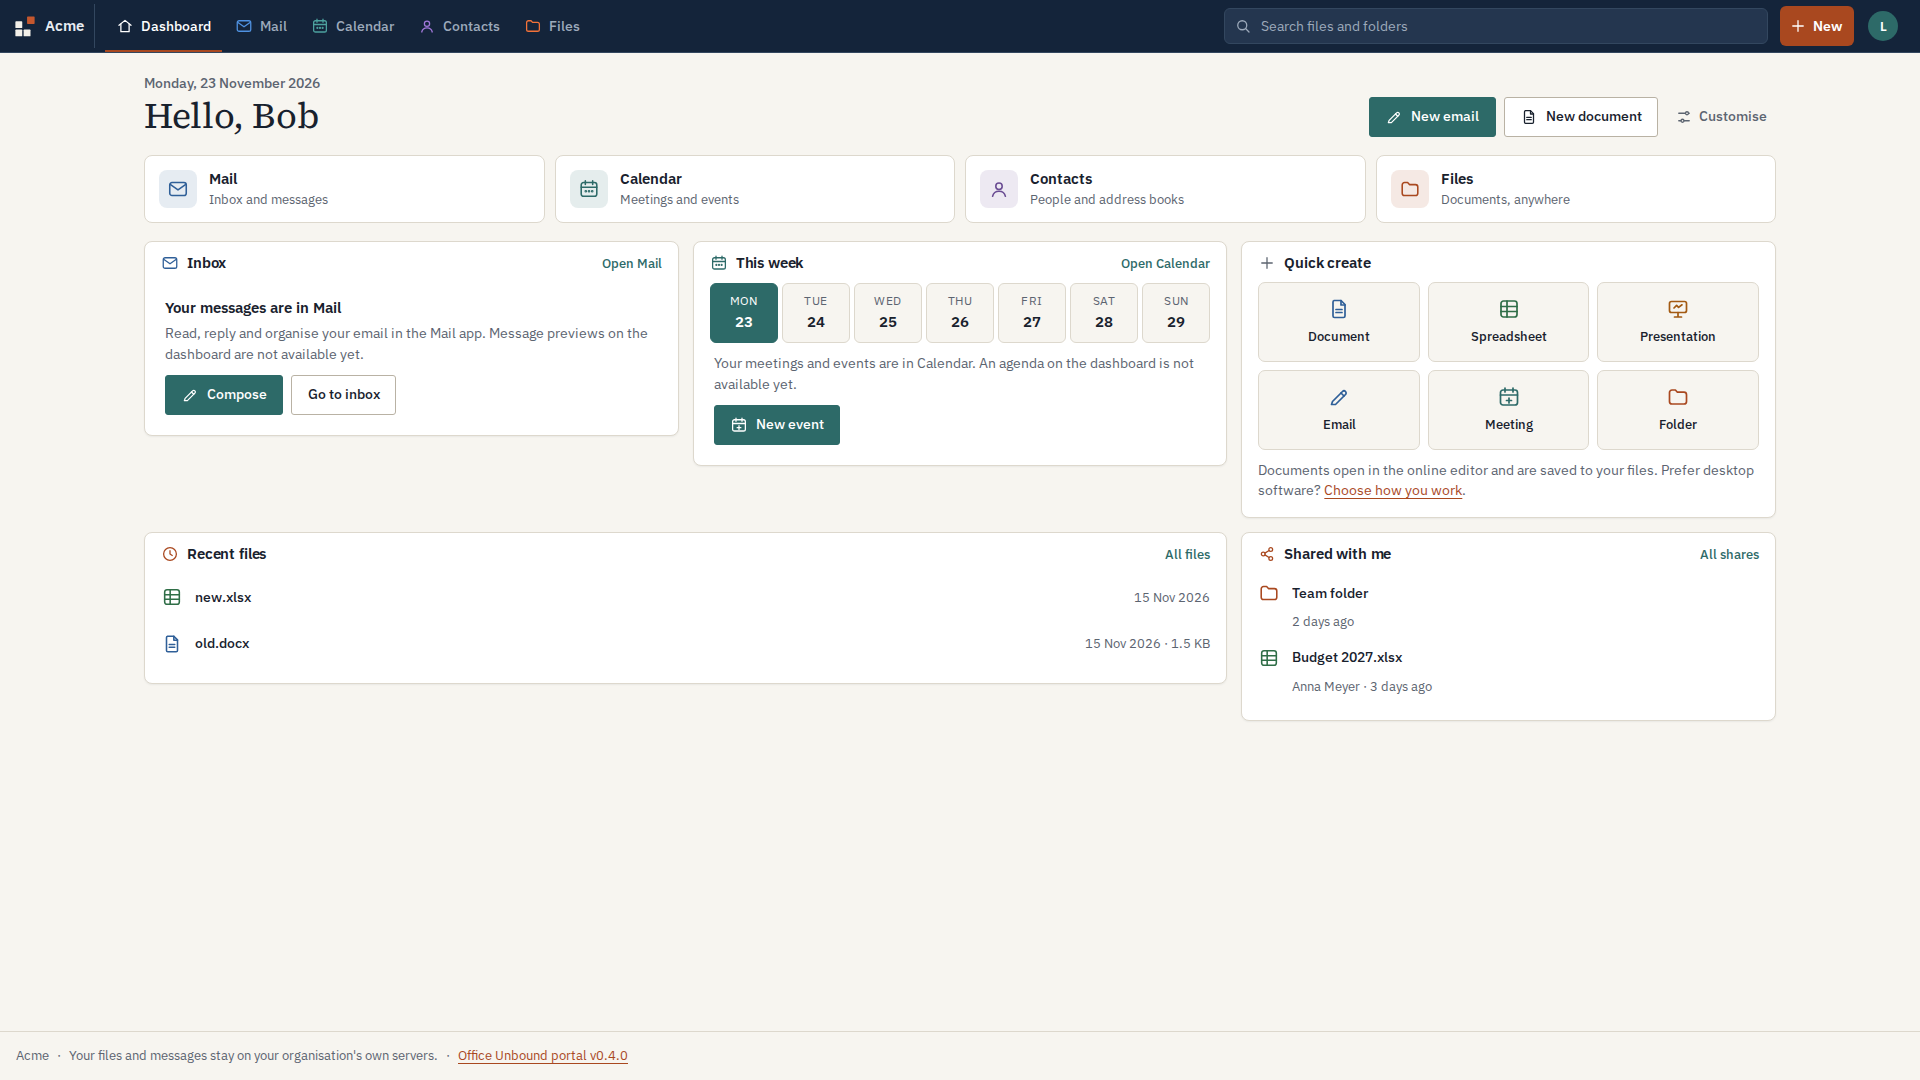
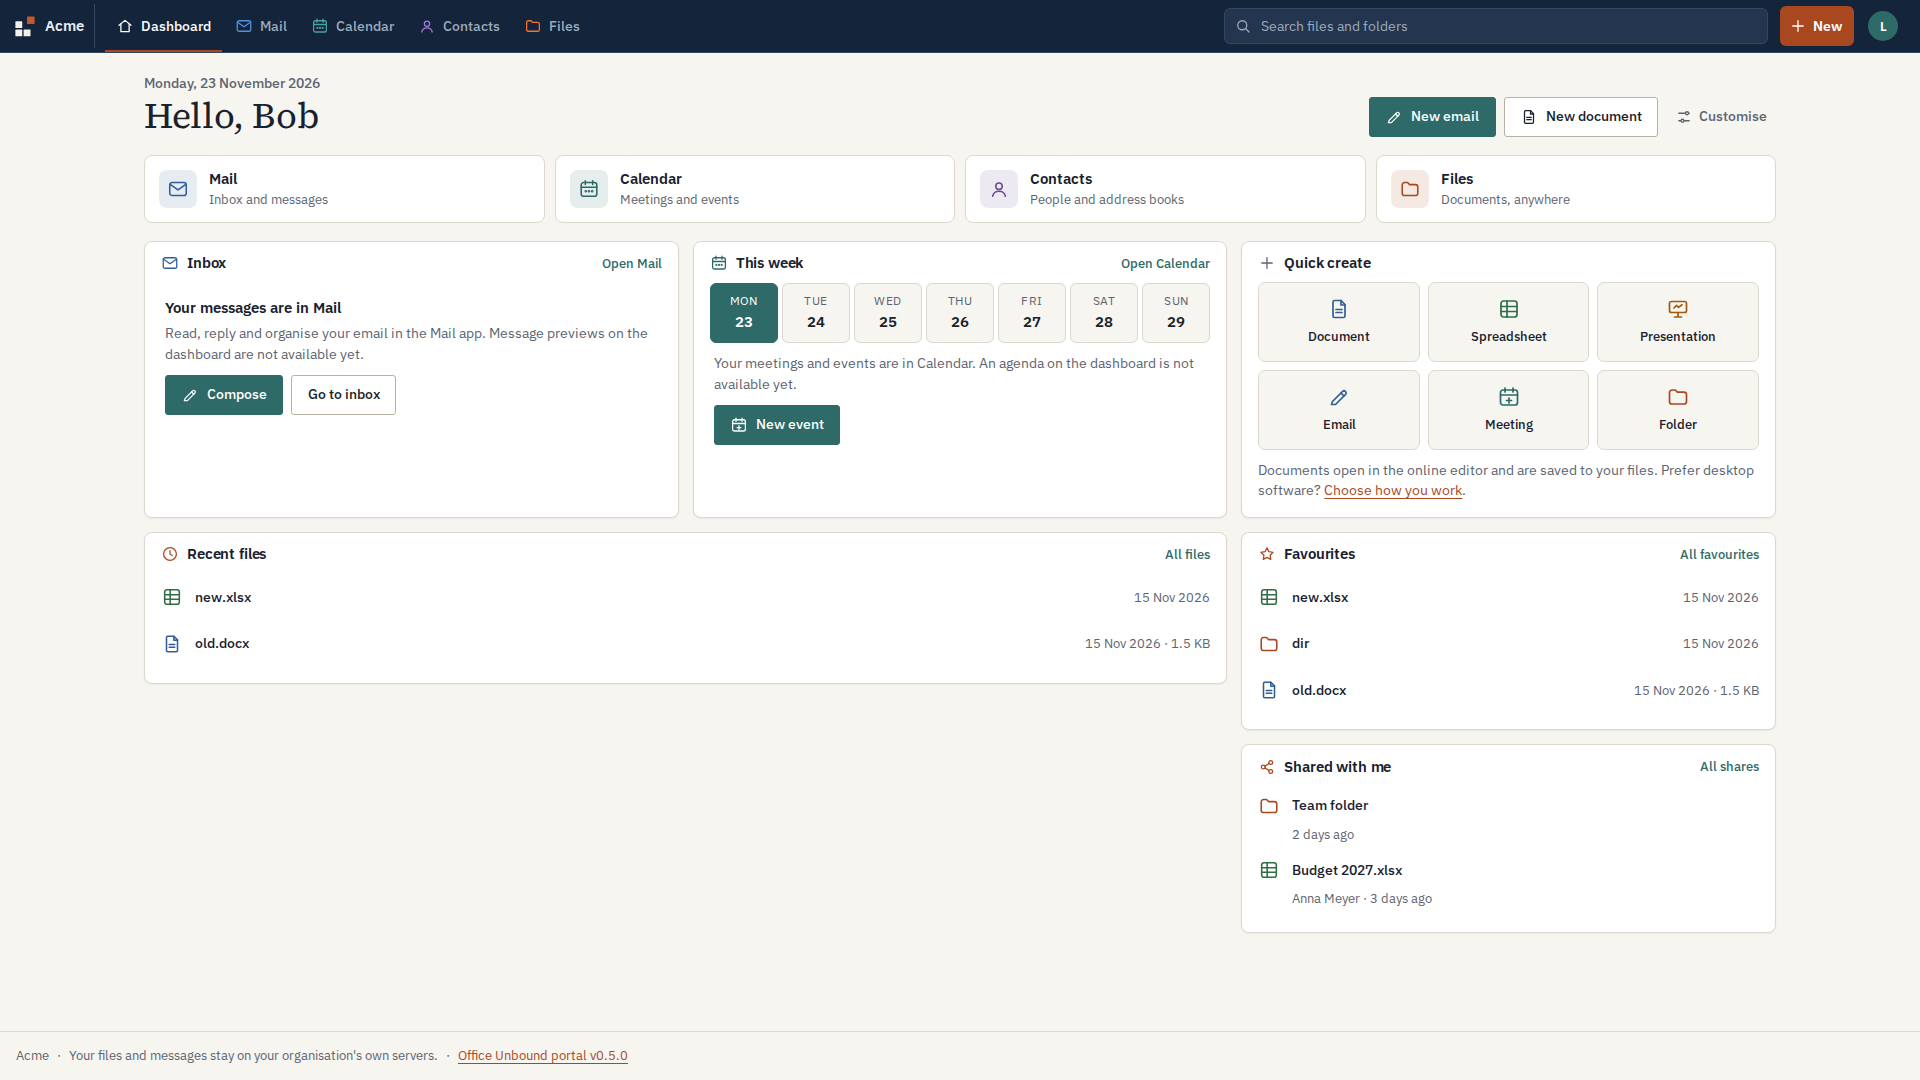
Dashboard: Favourites widget (live, Files' own is:favorite search); recent files beside favourites and shares; even first row

diff --git a/portal/app/static/portal.css b/portal/app/static/portal.css
@@ -280,11 +280,13 @@ main { padding-block: 1.25rem 3rem; }
 .apptile[data-app="contacts"] .ic { color: var(--ou-app-contacts); } .apptile[data-app="files"] .ic { color: var(--ou-app-files); } .apptile[data-app="chat"] .ic { color: var(--ou-app-chat); }
 .board { display: grid; grid-template-columns: repeat(12, minmax(0, 1fr)); gap: 14px; align-items: start; }
 .widget { grid-column: span 4; min-width: 0; background: var(--surface); border: 1px solid var(--line); border-radius: 8px; padding: 14px 16px 16px; box-shadow: var(--ou-shadow); }
-.w-recent { grid-column: span 8; } .w-shared { grid-column: span 4; }
+.board { grid-auto-flow: row dense; }
+.w-inbox, .w-cal, .w-create { align-self: stretch; }   /* the first row reads as one band of equal cards */
+.w-recent { grid-column: span 8; grid-row: span 2; } .w-shared, .w-fav { grid-column: span 4; }   /* recent on the left, favourites and shared stacked beside it */
 .wh { display: flex; align-items: center; justify-content: space-between; gap: 8px; margin: -2px 0 10px; }
 .wh h2 { display: inline-flex; align-items: center; gap: 8px; margin: 0; font-size: 14.5px; }
 .wh h2 .ic { width: 18px; height: 18px; color: var(--muted); }
-.w-inbox .wh .ic { color: var(--ou-app-mail); } .w-cal .wh .ic { color: var(--ou-app-calendar); } .w-recent .wh .ic, .w-shared .wh .ic { color: var(--ou-app-files); }
+.w-inbox .wh .ic { color: var(--ou-app-mail); } .w-cal .wh .ic { color: var(--ou-app-calendar); } .w-recent .wh .ic, .w-shared .wh .ic { color: var(--ou-app-files); } .w-fav .wh .ic { color: var(--ou-accent); }
 .wlink { font-size: 13px; font-weight: 500; text-decoration: none; color: var(--ou-action); }
 .wlink:hover { text-decoration: underline; }
 .wempty { padding: 14px 4px 4px; color: var(--muted); font-size: 14px; }
@@ -312,8 +314,8 @@ main { padding-block: 1.25rem 3rem; }
 .fname { overflow: hidden; text-overflow: ellipsis; white-space: nowrap; font-weight: 500; color: var(--ink); font-size: 14px; }
 .fmeta { color: var(--muted); font-size: 12.5px; white-space: nowrap; }
 .w-shared .frow { grid-template-columns: auto minmax(0, 1fr); } .w-shared .fmeta { grid-column: 2; margin-top: -4px; }
-@media (max-width: 1280px) { .widget { grid-column: span 6; } .w-recent { grid-column: span 12; } .w-shared { grid-column: span 6; } }
-@media (max-width: 760px) { .board { grid-template-columns: 1fr; } .widget, .w-recent, .w-shared { grid-column: auto; }
+@media (max-width: 1280px) { .widget { grid-column: span 6; } .w-recent { grid-column: span 12; grid-row: auto; } .w-shared, .w-fav { grid-column: span 6; } }
+@media (max-width: 760px) { .board { grid-template-columns: 1fr; } .widget, .w-recent, .w-shared, .w-fav { grid-column: auto; grid-row: auto; }
   .frow { grid-template-columns: auto minmax(0, 1fr); } .fmeta { grid-column: 2; white-space: normal; margin-top: -4px; } }
 .bigsearch { display: flex; gap: 8px; margin: 0 0 14px; max-width: 44rem; } .bigsearch input { flex: 1; }
 .h1like { font-size: 1.5rem; }

diff --git a/portal/app/templates/home.html b/portal/app/templates/home.html
@@ -113,6 +113,13 @@
   </section>
   {% endif %}
 
+  {% if has_files and "favorites" not in hidden %}
+  <section class="widget w-fav" aria-labelledby="h-fav">
+    <header class="wh"><h2 id="h-fav">{{ icon('star') }}Favourites</h2><a class="wlink" href="{{ cfg.files_url }}/files/favorites">All favourites</a></header>
+    {{ filerows(favorites, "No favourites yet", "Mark a file or folder with the star in Files and it appears here.") }}
+  </section>
+  {% endif %}
+
   {% if has_files and "shared" not in hidden %}
   <section class="widget w-shared" aria-labelledby="h-shared">
     <header class="wh"><h2 id="h-shared">{{ icon('share') }}Shared with me</h2><a class="wlink" href="{{ cfg.files_url }}/files/shares/with-me">All shares</a></header>

diff --git a/portal/app/templates/_icons.html b/portal/app/templates/_icons.html
@@ -30,6 +30,7 @@
 {%- elif name == 'signout' %}<path d="M14.5 4.5H18a1.5 1.5 0 0 1 1.5 1.5v12a1.5 1.5 0 0 1-1.5 1.5h-3.5"/><path d="M10 8l-4 4 4 4M6 12h9"/>
 {%- elif name == 'admin' %}<path d="M12 3.5 5 6v5.5c0 4.3 2.8 7.4 7 9 4.2-1.6 7-4.7 7-9V6z"/><circle cx="12" cy="11" r="2.2"/><path d="M8.8 16c.7-1.4 1.8-2.1 3.2-2.1s2.5.7 3.2 2.1"/>
 {%- elif name == 'share' %}<circle cx="17" cy="6" r="2.5"/><circle cx="7" cy="12" r="2.5"/><circle cx="17" cy="18" r="2.5"/><path d="m9.2 10.8 5.6-3.4M9.2 13.2l5.6 3.4"/>
+{%- elif name == 'star' %}<path d="m12 3.8 2.5 5.1 5.6.8-4 3.9 1 5.6-5.1-2.7-5 2.7 1-5.6-4.1-3.9 5.6-.8z"/>
 {%- elif name == 'clock' %}<circle cx="12" cy="12" r="8.5"/><path d="M12 7.5V12l3 2"/>
 {%- endif %}</svg>
 {%- endmacro %}

diff --git a/portal/app/main.py b/portal/app/main.py
@@ -38,7 +38,8 @@ def css_string(text: str) -> str:
 
 PREFS_COOKIE = "ou_prefs"
 THEMES = ("system", "light", "dark")
-WIDGETS = {"inbox": "Inbox", "calendar": "Calendar", "recent": "Recent files", "shared": "Shared with me", "create": "Quick create"}
+WIDGETS = {"inbox": "Inbox", "calendar": "Calendar", "recent": "Recent files", "favorites": "Favourites", "shared": "Shared with me",
+           "create": "Quick create"}
 
 
 def parse_prefs(raw: str | None) -> dict:
@@ -273,7 +274,7 @@ def create_app(cfg: Settings | None = None, transport: httpx.AsyncBaseTransport 
             # owner 2026-11-20: "https://app.<domain>/ should go right to auth": no intermediate page, straight to the sign-in service
             return RedirectResponse("/login", status_code=303)
         prefs = parse_prefs(request.cookies.get(PREFS_COOKIE))
-        notices, recent, shared = [], [], []
+        notices, recent, shared, favorites = [], [], [], []
         user = s.claims.get("preferred_username", "")
         if "recent" not in prefs["hidden"]:
             try:
@@ -287,7 +288,13 @@ def create_app(cfg: Settings | None = None, transport: httpx.AsyncBaseTransport 
             except (services.ServiceError, httpx.HTTPError) as e:
                 log.warning("shared-with-me unavailable: %s", e)
                 shared = None
-        return render(request, "home.html", {"recent": recent, "shared": shared, "notices": notices, "kinds": KINDS,
+        if "favorites" not in prefs["hidden"]:
+            try:
+                favorites = await services.favorite_files(cfg, state["http"], s.access_token, user)
+            except (services.ServiceError, httpx.HTTPError) as e:
+                log.warning("favourites unavailable: %s", e)
+                favorites = None
+        return render(request, "home.html", {"recent": recent, "shared": shared, "favorites": favorites, "notices": notices, "kinds": KINDS,
                                              "today": time.strftime("%A, %d %B %Y"), "week": week_days(),
                                              "flash": request.query_params.get("flash")}, sess=s)
 

diff --git a/portal/app/services.py b/portal/app/services.py
@@ -144,6 +144,20 @@ async def recent_files(cfg: Settings, http: httpx.AsyncClient, token: str, usern
         raise ServiceError("files: unreadable search response") from e
 
 
+async def favorite_files(cfg: Settings, http: httpx.AsyncClient, token: str, username: str, limit: int = 6) -> list[dict]:
+    """Files and folders the user marked as favourites in Files, newest first: the same search Files' own Favourites view sends
+    (KQL `is:favorite`, seen on officeunbound8 2026-11-23)."""
+    body = _SEARCH.format(pattern="is:favorite", limit=100)
+    r = await http.request("REPORT", f"{cfg.files_url}/remote.php/dav/files/{quote(username, safe='')}",
+                           headers={**_h(token), "Content-Type": "application/xml"}, content=body)
+    if r.status_code != 207:
+        raise ServiceError(f"files: favourites answered {r.status_code}")
+    try:
+        return parse_recent(r.content, cfg, limit, dirs=True)
+    except ET.ParseError as e:
+        raise ServiceError("files: unreadable favourites response") from e
+
+
 def stamp_name(kind: str, ext: str) -> str:
     label = {"document": "Document", "spreadsheet": "Spreadsheet", "presentation": "Presentation"}[kind]
     return f"New {label.lower()} {datetime.now().strftime('%Y-%m-%d %H%M%S')}.{ext}"

diff --git a/portal/tests/test_portal.py b/portal/tests/test_portal.py
@@ -604,6 +604,20 @@ def test_theme_and_widgets_are_saved_per_browser_and_need_csrf(env):
     assert 'id="h-shared"' in html
 
 
+def test_favourites_widget_asks_files_the_way_its_own_favourites_view_does(env):
+    c, m = _dash(env)
+    m.report_bodies = []
+    html = c.get("/").text
+    assert any("<oc:pattern>is:favorite</oc:pattern>" in b for b in m.report_bodies)        # the KQL Files' Favourites view sends
+    fav = html.split('id="h-fav"', 1)[1].split("</section>", 1)[0]
+    assert 'data-file="dir"' in fav and 'data-file="new.xlsx"' in fav                          # folders can be favourites too
+    assert f'href="{FILES}/files/favorites"' in fav
+    tok = _csrf(html)
+    c.post("/prefs", data={"csrf": tok, "widgets_form": "1", "show": ["recent", "shared"]})
+    m.report_bodies = []
+    assert 'id="h-fav"' not in c.get("/").text and not any("is:favorite" in b for b in m.report_bodies)
+
+
 def test_prefs_cookie_parser_accepts_only_known_values():
     from app.main import WIDGETS, dump_prefs, parse_prefs
     assert parse_prefs(None) == {"theme": "system", "hidden": []}

diff --git a/docs/design/design-system.md b/docs/design/design-system.md
@@ -42,6 +42,9 @@ Welcome line with the date and the two most used actions; app tiles; a 12-column
 Honesty rule: nothing is shown that was not read. Mail and calendar have no dashboard data source yet, so their widgets say so and
 offer working actions (Compose opens a new message, New event opens the calendar). Tasks and Notes are not shown: no such app is
 deployed. Admin and ICS information never appears on the user dashboard.
+- Favourites (0.13.1): the files and folders starred in Files, from the same search Files' own Favourites view sends (KQL
+  `is:favorite`, recorded on officeunbound8); "All favourites" opens that view. Recent files spans two rows on wide screens with
+  Favourites and Shared with me stacked beside it; the first row (Inbox, This week, Quick create) has equal heights.
 
 ## Upstream limitations (stage 1)
 
